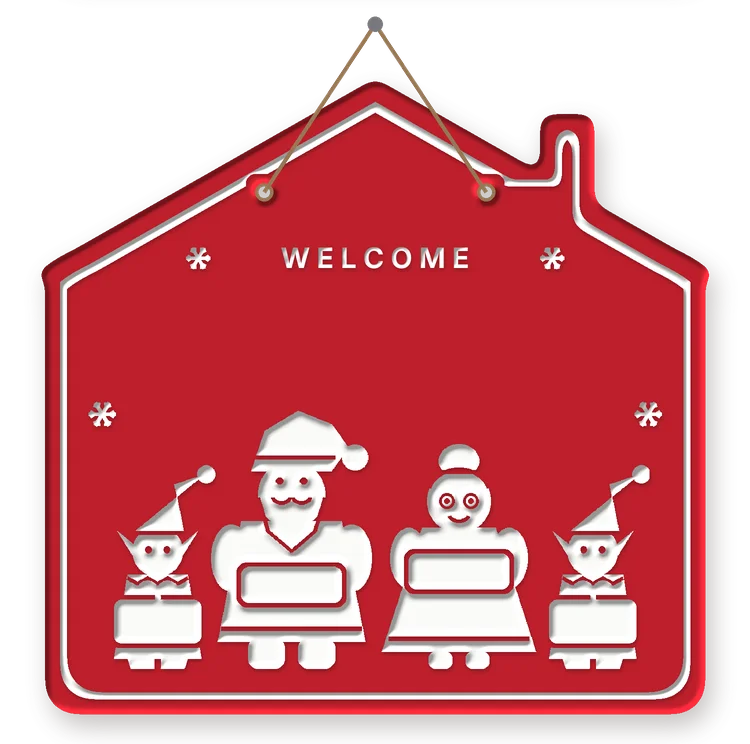
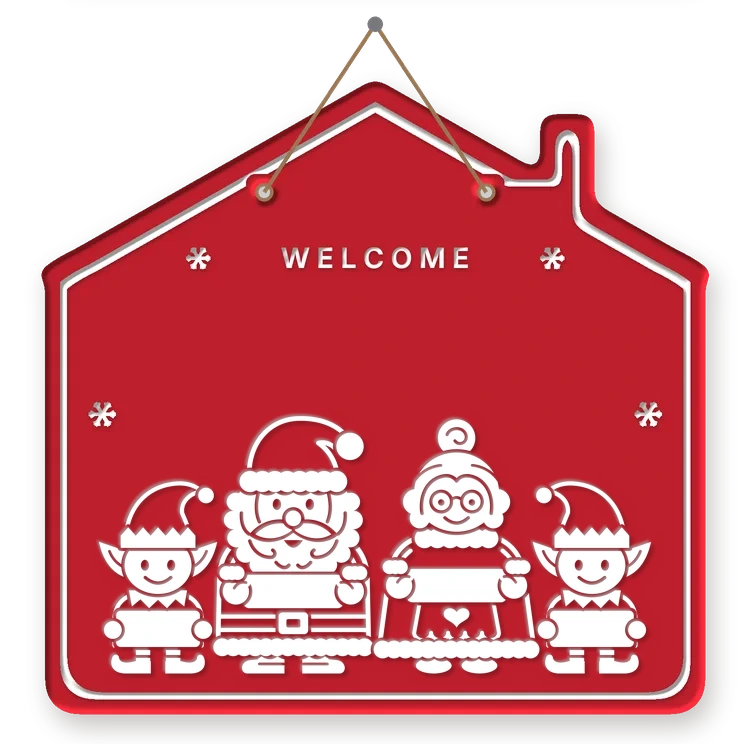
Door sign v2: detailed Santa, Mama Claus and elves + Oleo Script Bold plate names
New img/door/xmas-*.webp (blank plates), new DOOR.xmas plate boxes, plateText() with the font's own
width table (kerning off) so the preview matches the .3mf tool, door image cache-bust, updated
Copy-for-Claude door sign prompt (tool path, v2 design only, colour), ?v= bumped.

Claude-Session: https://claude.ai/code/session_01TFBsFqshvjq42uhkt1nnqf

Changed region(s): [[0.1227, 0.5565, 0.8893, 0.9274]]

diff --git a/art.js b/art.js
@@ -351,7 +351,7 @@
   try { if (g.document && document.fonts) { Promise.all([document.fonts.load('100px Caladea3DB'), document.fonts.load('100px LoraBI3DB')]).then(nameRefit, function () {}); } } catch (e) {}
 
   // ---- Family door signs (Christmas: Santa = dad, Mama Claus = mom, elves = kids; plain: family name) ----
-  var DOOR = {"xmas":{"1":[[80.47,194.86,33.49,11.72],[125.12,207.14,29.02,14.51],[169.78,190.4,33.49,11.72]],"2":[[52.48,207.14,29.02,14.51],[97.13,194.86,33.49,11.72],[152.94,190.4,33.49,11.72],[197.59,207.14,29.02,14.51]],"3":[[40.88,208.27,27.34,13.67],[82.94,196.71,31.55,11.04],[125.0,208.27,27.34,13.67],[167.06,192.5,31.55,11.04],[209.12,208.27,27.34,13.67]],"4":[[38.48,210.58,23.68,11.84],[65.8,210.58,23.68,11.84],[102.23,200.57,27.32,9.56],[147.77,196.92,27.32,9.56],[184.2,210.58,23.68,11.84],[211.52,210.58,23.68,11.84]],"5":[[36.65,212.22,20.88,10.44],[60.75,212.22,20.88,10.44],[92.87,203.39,24.09,8.43],[133.03,200.17,24.09,8.43],[165.16,212.22,20.88,10.44],[189.25,212.22,20.88,10.44],[213.35,212.22,20.88,10.44]]},"plain":{},"xmasSize":[250,248],"plainSize":[230,200],"xmasFamily":[125,114,184,34],"plainFamily":[115,136,170,44],"roles":{"1":["S","E","M"],"2":["E","S","M","E"],"3":["E","S","E","M","E"],"4":["E","E","S","M","E","E"],"5":["E","E","S","M","E","E","E"]}};
+  var DOOR = {"xmas":{"1":[[79.9,197.16,33.48,11.16],[125.0,209.62,27.9,12.09],[170.1,195.2,33.48,11.16]],"2":[[52.69,209.62,27.9,12.09],[97.8,197.16,33.48,11.16],[152.2,195.2,33.48,11.16],[197.31,209.62,27.9,12.09]],"3":[[44.38,211.2,24.94,10.81],[84.69,200.06,29.92,9.97],[125.0,211.2,24.94,10.81],[165.31,198.32,29.92,9.97],[205.62,211.2,24.94,10.81]],"4":[[42.18,213.1,21.37,9.26],[69.61,213.1,21.37,9.26],[104.16,203.55,25.65,8.55],[145.84,202.06,25.65,8.55],[180.39,213.1,21.37,9.26],[207.82,213.1,21.37,9.26]],"5":[[40.53,214.53,18.7,8.1],[64.53,214.53,18.7,8.1],[94.77,206.17,22.44,7.48],[131.23,204.86,22.44,7.48],[161.47,214.53,18.7,8.1],[185.47,214.53,18.7,8.1],[209.47,214.53,18.7,8.1]]},"plain":{},"xmasSize":[250,248],"plainSize":[230,200],"xmasFamily":[125,114,184,34],"plainFamily":[115,136,170,44],"roles":{"1":["S","E","M"],"2":["E","S","M","E"],"3":["E","S","E","M","E"],"4":["E","E","S","M","E","E"],"5":["E","E","S","M","E","E","E"]}};
   var DOORC = { green: '#01796F', red: '#BE202C' };
   var _mc = null;
   function tw(txt, font) { try { _mc = _mc || document.createElement('canvas').getContext('2d'); _mc.font = font; return _mc.measureText(txt).width; } catch (e) { return txt.length * 0.6 * parseFloat(font.match(/(\d+(?:\.\d+)?)px/)[1]); } }
@@ -361,6 +361,16 @@
     var size = Math.min(maxh, maxw / w1);
     return '<text x="' + x + '" y="' + y + '" text-anchor="middle" dominant-baseline="central" font-family="' + fam.replace(/"/g, '') + '" font-weight="' + weight + '" font-size="' + size.toFixed(2) + '" fill="' + fill + '"' + (extra || '') + '>' + esc2(txt) + '</text>';
   }
+  // Plate names (20 Nov 2026): Oleo Script Bold, cut into the white plates. Widths come from the font's own advance table (kerning off),
+  // so the size is right before the web font loads and matches the .3mf tool exactly. Baseline = plate centre + 0.30 x size.
+  var DOORADV = (function () { var c = " !\"#$%&'()*+,-./0123456789:;<=>?@ABCDEFGHIJKLMNOPQRSTUVWXYZ[\\]^_`abcdefghijklmnopqrstuvwxyz{|}~¡¢£¤¥¦§¨©ª«¬®¯°±²³´µ¶·¸¹º»¼½¾¿ÀÁÂÃÄÅÆÇÈÉÊËÌÍÎÏÐÑÒÓÔÕÖ×ØÙÚÛÜÝÞßàáâãäåæçèéêëìíîïðñòóôõö÷øùúûüýþÿħĨĩıĲĳĴĵķĸĿŀŁłŃńŒœŔŖŗŘř", v = [200,334,393,614,505,864,786,236,379,403,420,528,255,423,272,373,617,398,531,513,581,515,585,460,513,560,341,341,446,512,430,407,832,611,631,578,681,545,517,610,712,361,437,652,524,997,689,675,583,670,651,508,529,705,603,920,627,670,580,394,378,426,471,614,636,531,520,424,542,436,326,508,544,300,298,551,297,790,554,446,512,518,392,385,338,542,427,660,424,505,425,468,268,471,540,311,415,551,696,516,278,502,548,794,414,523,455,794,502,255,583,397,356,616,544,643,325,512,312,331,554,790,791,865,368,604,604,604,604,604,604,748,578,545,545,545,545,361,361,361,361,694,689,675,675,675,675,675,511,675,705,705,705,705,670,584,663,531,531,531,526,531,531,671,415,436,437,437,437,300,300,300,300,490,554,446,446,446,446,446,546,444,542,542,542,542,505,483,505,544,369,300,300,787,593,437,303,551,562,538,424,537,377,689,554,866,754,651,651,392,661,392], o = {}, i; for (i = 0; i < v.length; i++) o[c.charAt(i)] = v[i]; return o; })();
+  var DOORV = 2;
+  function plateText(txt, b, fill) {
+    txt = String(txt == null ? '' : txt); if (!txt) return '';
+    var w = 0, i; for (i = 0; i < txt.length; i++) w += DOORADV[txt.charAt(i)] || 560;
+    var size = Math.min(b[3] * 0.72, b[2] * 0.80 / (w / 1000));
+    return '<text x="' + b[0] + '" y="' + (b[1] + size * 0.30).toFixed(2) + '" text-anchor="middle" font-family="OleoScript3DB, Oleo Script, Pacifico3DB, cursive" font-weight="400" font-size="' + size.toFixed(2) + '" fill="' + fill + '" style="font-kerning:none;font-variant-ligatures:none;font-feature-settings:\'kern\' 0,\'liga\' 0,\'calt\' 0">' + esc2(txt) + '</text>';
+  }
   function doorCol(o) { return o.color === 'red' ? 'red' : 'green'; }
   ART['door-xmas'] = function (o) {
     var kids = (o.kids && o.kids.length ? o.kids : ['Jad', 'Lea', 'Sami']).slice(0, 5), n = kids.length, c = doorCol(o), roles = DOOR.roles[n], pl = DOOR.xmas[n], ki = 0, t = '';
@@ -368,9 +378,9 @@
     t += fitText(fam, F[0], F[1] + 2, F[2], F[3] * 0.82, 'Pacifico3DB, Pacifico, cursive', 400, '#FFFFFF', ' style="filter:drop-shadow(0 .6px .5px rgba(0,0,0,.35))"');
     roles.forEach(function (r, i) {
       var b = pl[i], nm = r === 'S' ? (o.dad == null ? 'Georges' : o.dad) : r === 'M' ? (o.mom == null ? 'Rita' : o.mom) : (kids[ki++] || '');
-      t += fitText(nm, b[0], b[1] + 0.3, b[2] - 4, b[3] * 0.62, 'Inter, Manrope, system-ui, sans-serif', 800, DOORC[c]);
+      t += plateText(nm, b, DOORC[c]);
     });
-    return '<svg viewBox="0 0 250 248" class="door" role="img" aria-label="Family Christmas door sign"><image href="img/door/xmas-' + c + '-' + n + '.webp" x="0" y="0" width="250" height="248"/>' + t + '</svg>';
+    return '<svg viewBox="0 0 250 248" class="door" role="img" aria-label="Family Christmas door sign"><image href="img/door/xmas-' + c + '-' + n + '.webp?v=' + DOORV + '" x="0" y="0" width="250" height="248"/>' + t + '</svg>';
   };
   ART['door-plain'] = function (o) {
     var c = doorCol(o), F = DOOR.plainFamily, fam = o.family == null ? 'The Haddads' : o.family;

diff --git a/app.js b/app.js
@@ -2290,6 +2290,7 @@
     } else {
       var it = o.items.filter(function (i) { return i.id === 'my-village'; })[0] || o.items.filter(function (i) { return i.text; })[0];
       data = { type: it.id === 'my-village' ? 'map' : 'custom', geo: it.geo || null, title: it.id === 'my-village' ? (it.text || '') : it.name + (it.text ? ' with “' + it.text + '”' : ''), base: 'black', mapc: 'white', place: o.customer.region || '', notes: '', size: '', order: o.code, status: 'sent', createdAt: Date.now() };
+      if (it.id !== 'my-village' && it.color && isDoor(Store.product(it.id))) data.color = String(it.color);
     }
     Store.saveRequest(null, data).then(function (id) { data.id = id; copy(requestText(data), 'Copied — paste it in your Claude chat'); if (done) done(); });
   }
@@ -2329,7 +2330,16 @@
       var gr = r.groups || { holy: r.names || [] };
       t += Object.keys(ORN_TOOL).filter(function (k) { return gr[k] && gr[k].length; }).map(function (k) { var T = ORN_TOOL[k]; return 'Product: ' + T.name + ' (3DBlaze original) — one .3mf per name\nSample: ' + T.sample + '\nTool: ' + T.tool + '\nNames: ' + gr[k].join(', ') + '\nColours:\n' + gr[k].map(function (nm, j) { return '- ' + nm + ': ' + ((r.cols && r.cols[k] && r.cols[k][j]) || ornColor(k, null)); }).join('\n') + '\n' + T.spec; }).join('\n\n');
     }
-    else if (/door ?sign|santa|elf|elves/i.test(r.title + ' ' + (r.notes || ''))) t += 'Product: Family door sign (3DBlaze original) (.3mf for Bambu Studio)\nTool: Christmass\\3DBlaze door sign tool.zip (door.py) — run it with the family name, Dad, Mum, kids and green|red. Sample: Christmass\\3DBlaze Door Sign Santa Elves - Sassine - sample.3mf\nWhat: ' + r.title;
+    else if (/door ?sign|santa|elf|elves/i.test(r.title + ' ' + (r.notes || ''))) {
+      // door signs: design v2 (20 Nov 2026) — detailed Santa / Mama Claus / elves, plate names in Oleo Script Bold. The old blocky design is retired.
+      var dxm = /santa|elf|elves/i.test(r.title + ' ' + (r.notes || ''));
+      t += 'Product: ' + (dxm ? 'Santa & Elves Family Door Sign' : 'Family Door Sign (plain)') + ' (3DBlaze original) (.3mf for Bambu Studio)' +
+        (dxm ? '\nDesign: the CURRENT design only (v2, 20 Nov 2026) — detailed Santa, Mama Claus and elves, names in Oleo Script Bold cut into the white plates. The old blocky characters / plain bold names are retired: never use them.' : '') +
+        '\nTool: Christmass\\Door Sign\\3DBlaze door sign tool.zip → ' + (dxm ? 'python3 door_site.py "Family name" "Dad" "Mum" "Kid1,Kid2" "3DBlaze Door Sign Santa Elves - Family.3mf" green|red "preview.png"' : 'python3 door_site.py --plain "Family name" "3DBlaze Family Door Sign - Family.3mf" green|red "preview.png"') +
+        '\nSample: Christmass\\Door Sign\\' + (dxm ? '3DBlaze Door Sign Santa Elves - Sassine - sample.3mf' : '3DBlaze Family Door Sign - Sassine - sample.3mf') +
+        '\nWhat: ' + r.title + (r.color ? '\nColour: ' + r.color : '\nColour: take it from the order (items[].color)') +
+        '\nThe .3mf must look exactly like the website preview. Save it in Orders\\<Client name>\\<order number> - <date>\\.';
+    }
     else t += 'Product: custom design (.3mf for Bambu Studio)\nWhat: ' + r.title;
     if (r.size) t += '\nSize: ' + r.size;
     if (r.notes) t += '\nNotes: ' + r.notes;

diff --git a/studio-0bc83dc5.html b/studio-0bc83dc5.html
@@ -376,6 +376,7 @@ footer a:hover{color:var(--text)}
 @font-face{font-family:Pacifico3DB;src:url(fonts/pacifico.woff) format('woff');font-weight:400;font-display:swap}
 @font-face{font-family:Caladea3DB;src:url(fonts/caladea-bold.woff) format('woff');font-weight:400;font-display:swap}
 @font-face{font-family:LoraBI3DB;src:url(fonts/lora-bold-italic.woff) format('woff');font-weight:400;font-display:swap}
+@font-face{font-family:OleoScript3DB;src:url(fonts/oleo-script-bold.woff) format('woff');font-weight:400;font-display:swap}
 .ornart{width:100%;height:100%;display:flex;align-items:center;justify-content:center;background:radial-gradient(circle at 50% 40%,#FFF4E8,#F6F1EA 70%)}
 .ornart svg{width:88%;height:88%;filter:drop-shadow(0 6px 10px rgba(80,10,10,.22))}
 .custhint{font-family:var(--body,inherit);font-size:13px;font-weight:600;letter-spacing:0;color:#1A8CFF;margin-left:8px;white-space:nowrap;vertical-align:middle}
@@ -412,9 +413,9 @@ footer a:hover{color:var(--text)}
 
 <div class="toast" id="toast" role="status" aria-live="polite"></div>
 <script>window.BLAZE_ADMIN = true;</script>
-<script src="firebase-config.js?v=95190007"></script>
-<script src="art.js?v=95190007"></script>
-<script src="w3d.js?v=95190007"></script>
-<script src="app.js?v=95190007"></script>
+<script src="firebase-config.js?v=95200001"></script>
+<script src="art.js?v=95200001"></script>
+<script src="w3d.js?v=95200001"></script>
+<script src="app.js?v=95200001"></script>
 </body>
 </html>

diff --git a/index.html b/index.html
@@ -577,6 +577,7 @@ footer{background:#fff}
 @font-face{font-family:Pacifico3DB;src:url(fonts/pacifico.woff) format('woff');font-weight:400;font-display:swap}
 @font-face{font-family:Caladea3DB;src:url(fonts/caladea-bold.woff) format('woff');font-weight:400;font-display:swap}
 @font-face{font-family:LoraBI3DB;src:url(fonts/lora-bold-italic.woff) format('woff');font-weight:400;font-display:swap}
+@font-face{font-family:OleoScript3DB;src:url(fonts/oleo-script-bold.woff) format('woff');font-weight:400;font-display:swap}
 .ornart{width:100%;height:100%;display:flex;align-items:center;justify-content:center;background:radial-gradient(circle at 50% 40%,#FFF4E8,#F6F1EA 70%)}
 .ornart svg{width:88%;height:88%;filter:drop-shadow(0 6px 10px rgba(80,10,10,.22))}
 .custhint{font-family:var(--body,inherit);font-size:13px;font-weight:600;letter-spacing:0;color:#1A8CFF;margin-left:8px;white-space:nowrap;vertical-align:middle}
@@ -748,9 +749,9 @@ footer a{color:#fff}footer a:hover{color:#4BA6FF}
   </div>
 </footer>
 <div class="toast" id="toast" role="status" aria-live="polite"></div>
-<script src="firebase-config.js?v=95190007"></script>
-<script src="art.js?v=95190007"></script>
-<script src="w3d.js?v=95190007"></script>
-<script src="app.js?v=95190007"></script>
+<script src="firebase-config.js?v=95200001"></script>
+<script src="art.js?v=95200001"></script>
+<script src="w3d.js?v=95200001"></script>
+<script src="app.js?v=95200001"></script>
 </body>
 </html>
